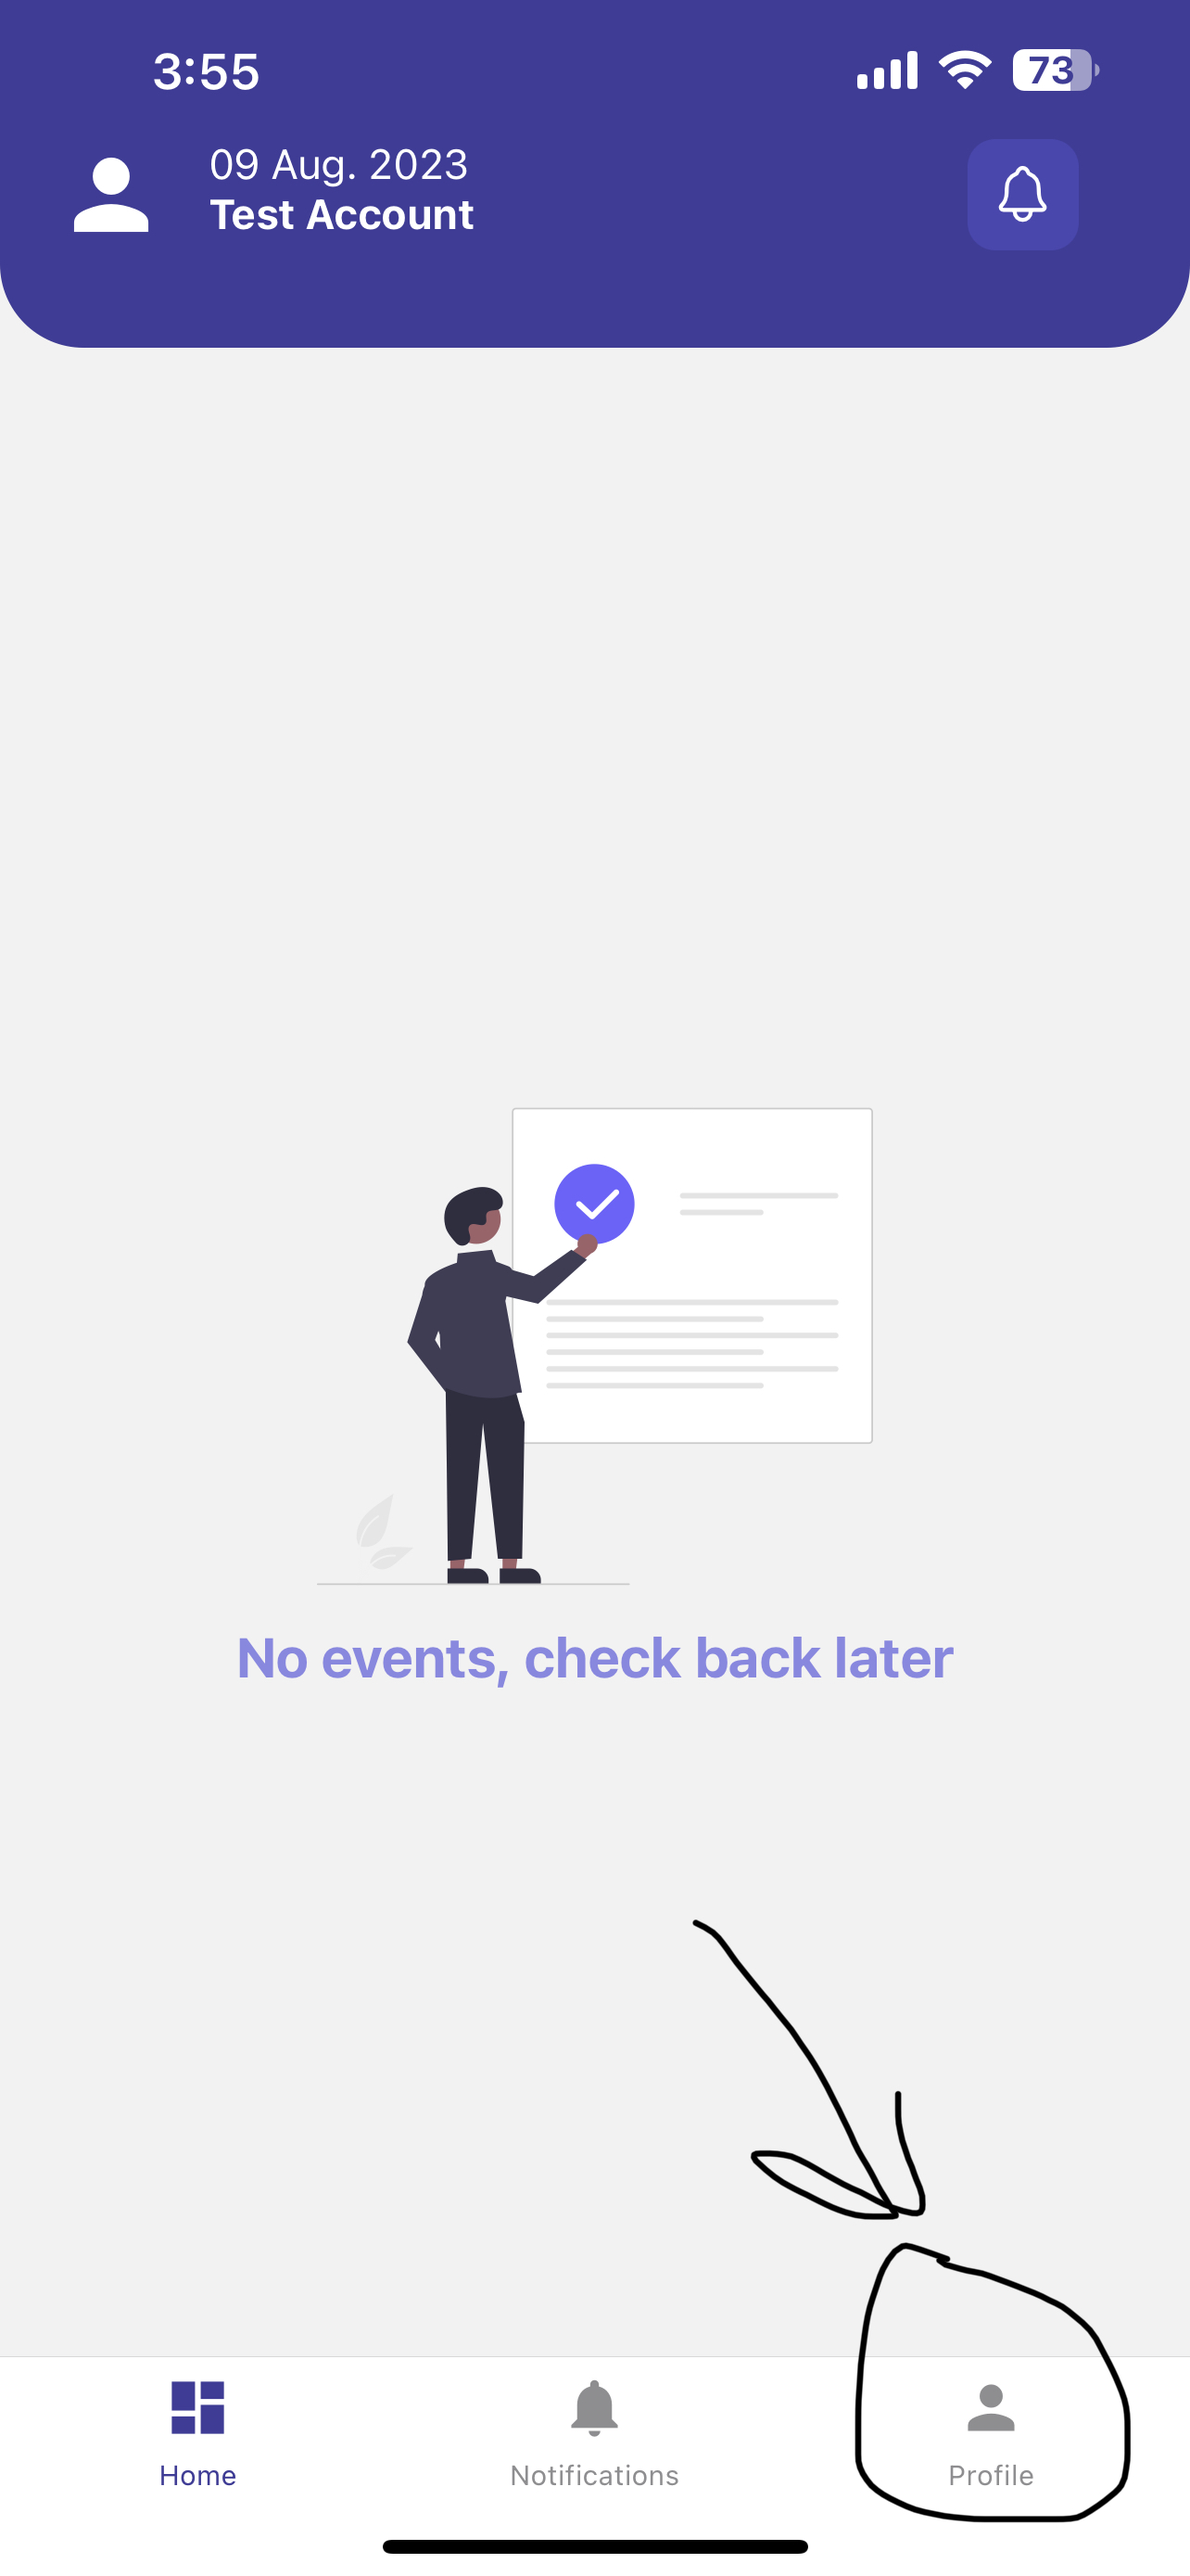
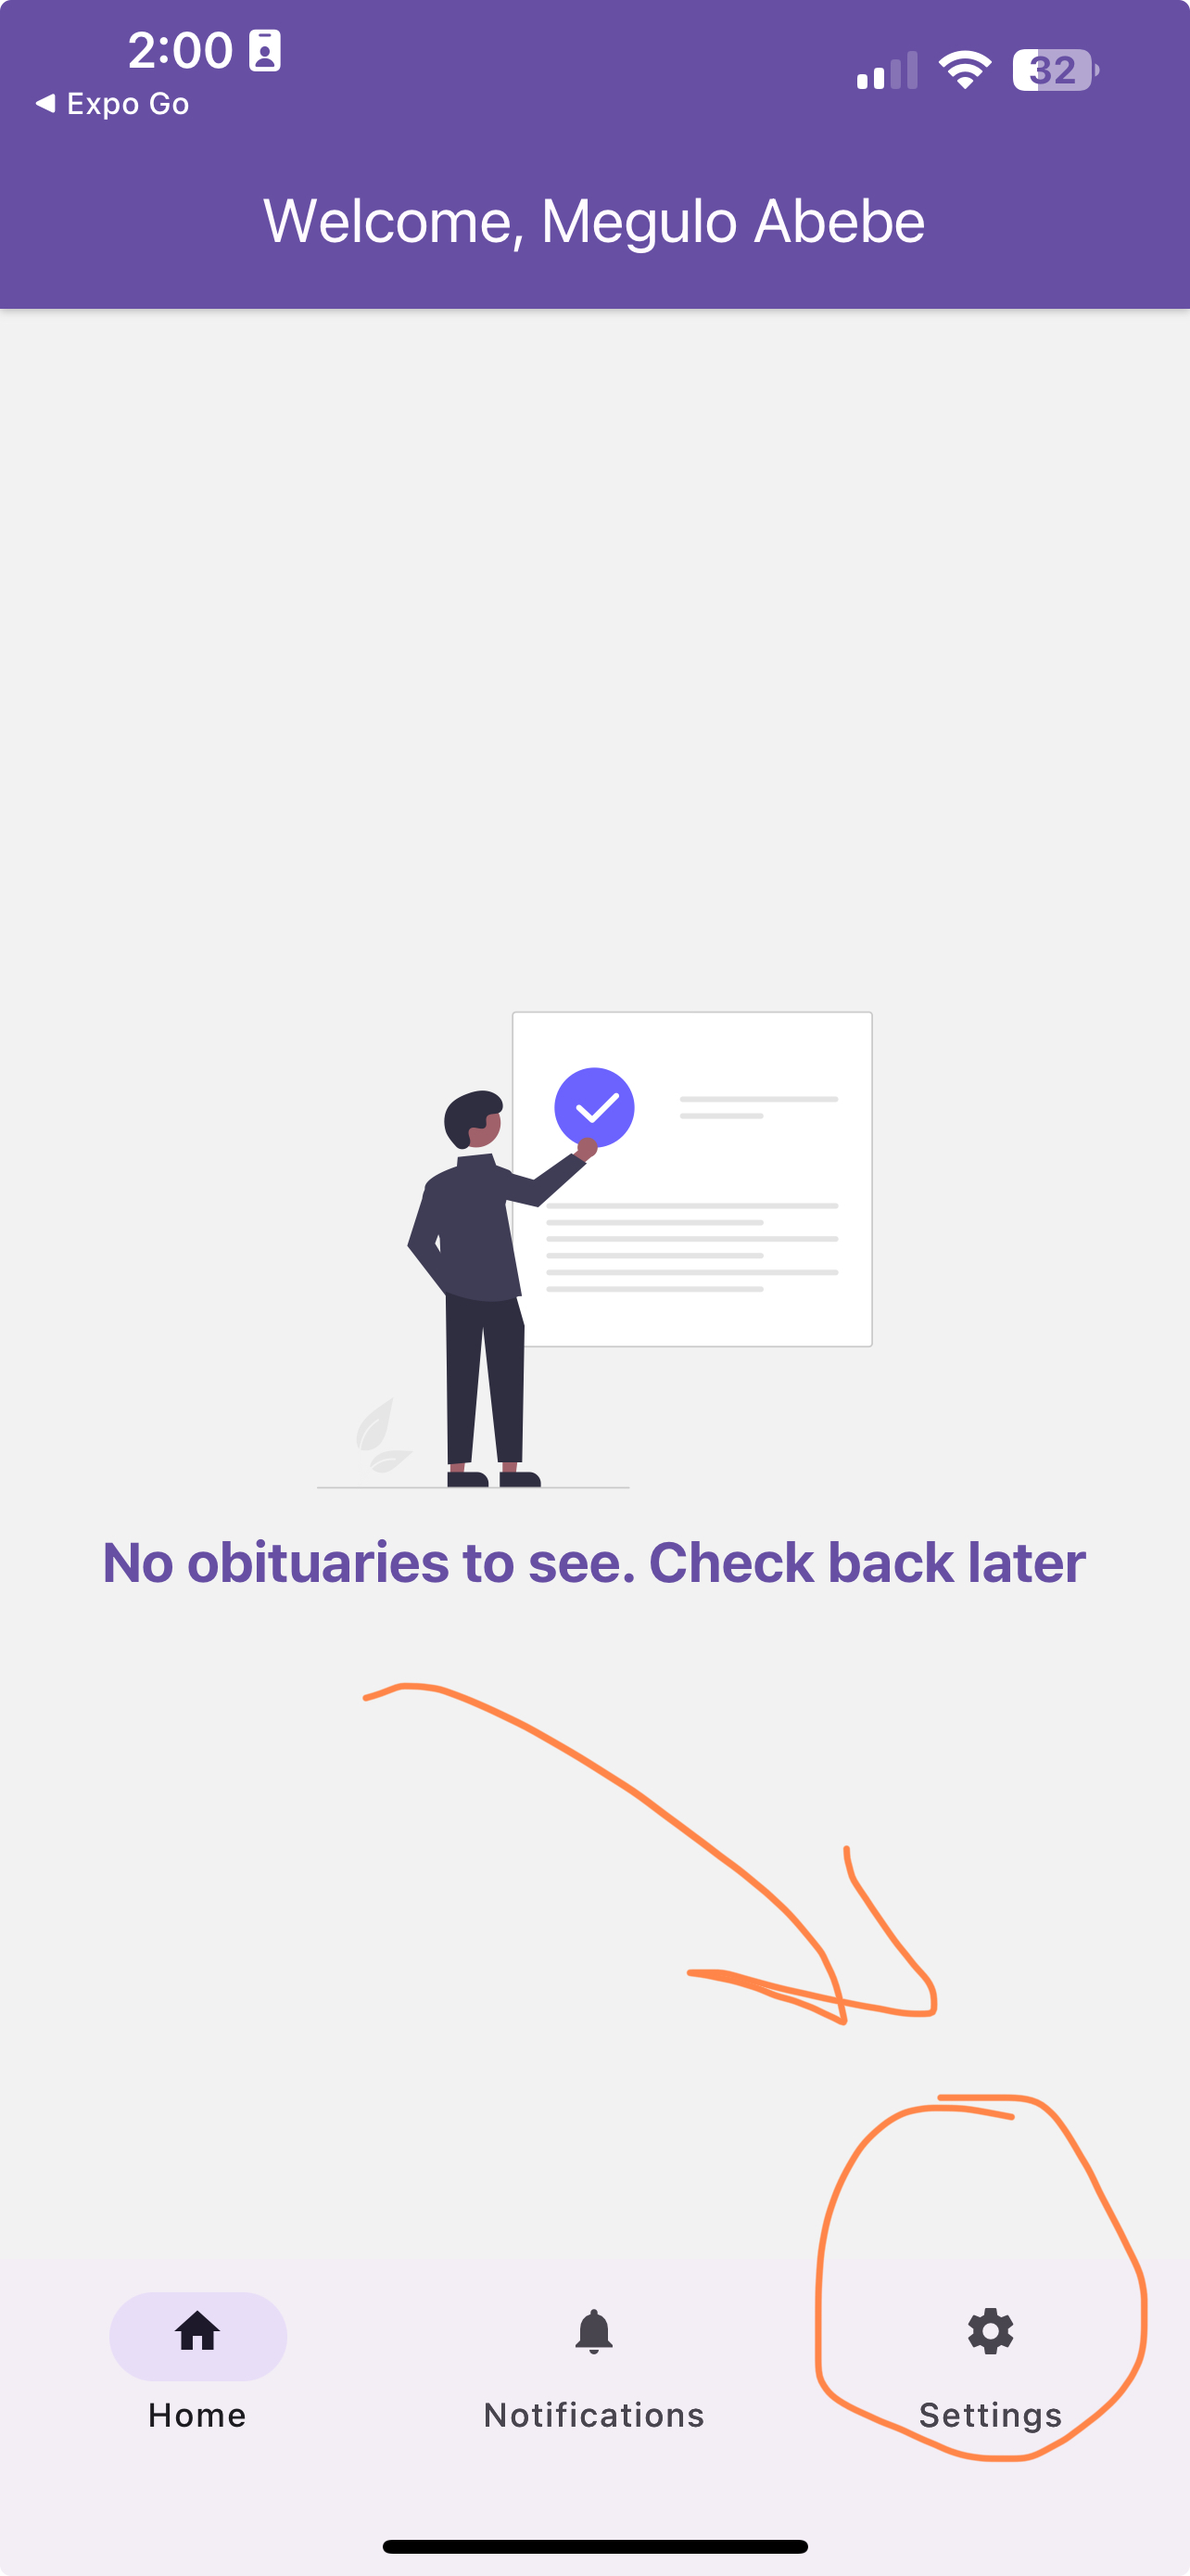
Updated to account for 2.0 release

diff --git a/deleteAccount.html b/deleteAccount.html
@@ -1,5 +1,6 @@
 <!DOCTYPE html>
 <html lang="en">
+
 <head>
     <meta charset="UTF-8">
     <meta http-equiv="X-UA-Compatible" content="IE=edge">
@@ -10,12 +11,14 @@
             font-family: Arial, sans-serif;
             margin: 20px;
         }
+
         img {
             max-width: 400px;
             margin-top: 10px;
             margin-bottom: 20px;
             display: block;
         }
+
         h2 {
             color: #333;
             border-bottom: 2px solid #ddd;
@@ -23,25 +26,28 @@
         }
     </style>
 </head>
+
 <body>
 
-<div class="steps-container">
-    <h2>Steps to Delete Your DMAASD Account</h2>
+    <div class="steps-container">
+        <h2>Steps to Delete Your DMAASD Account</h2>
 
-    <h3>1. Log into the DMAASD app</h3>
-    <img src="assets/login.PNG" alt="Placeholder Image for Step 1">
+        <h3>1. Log into the DMAASD app</h3>
+        <img src="assets/login.PNG" alt="Placeholder Image for Step 1">
 
-    <h3>2. Navigate to the "Profile" screen through the bottom tab labeled "Profile"</h3>
-    <img src="assets/home.jpg" alt="Placeholder Image for Step 2">
+        <h3>2. Navigate to the "Settings" screen through the bottom tab labeled "Settings"</h3>
+        <img src="assets/home.jpg" alt="Placeholder Image for Step 2">
 
-    <h3>3. On the bottom of the screen you'll see text that says "Delete my account". It's located underneath the version number.</h3>
-    <img src="assets/profile.jpg" alt="Placeholder Image for Step 3">
+        <h3>3. On the bottom of the screen you'll see text that says "Delete my account". It's located underneath the
+            version number.</h3>
+        <img src="assets/profile.jpg" alt="Placeholder Image for Step 3">
 
-    <h3>4. Tap on that text and you'll be prompted to confirm your decision for deleting the account.</h3>
-    <img src="assets/confirm.PNG" alt="Placeholder Image for Step 4">
+        <h3>4. Tap on that text and you'll be prompted to confirm your decision for deleting the account.</h3>
+        <img src="assets/confirm.PNG" alt="Placeholder Image for Step 4">
 
-    <h3>5. Then your account will be deleted along with all of your data and you'll be logged out of the app.</h3>
-</div>
+        <h3>5. Then your account will be deleted along with all of your data and you'll be logged out of the app.</h3>
+    </div>
 
 </body>
+
 </html>
